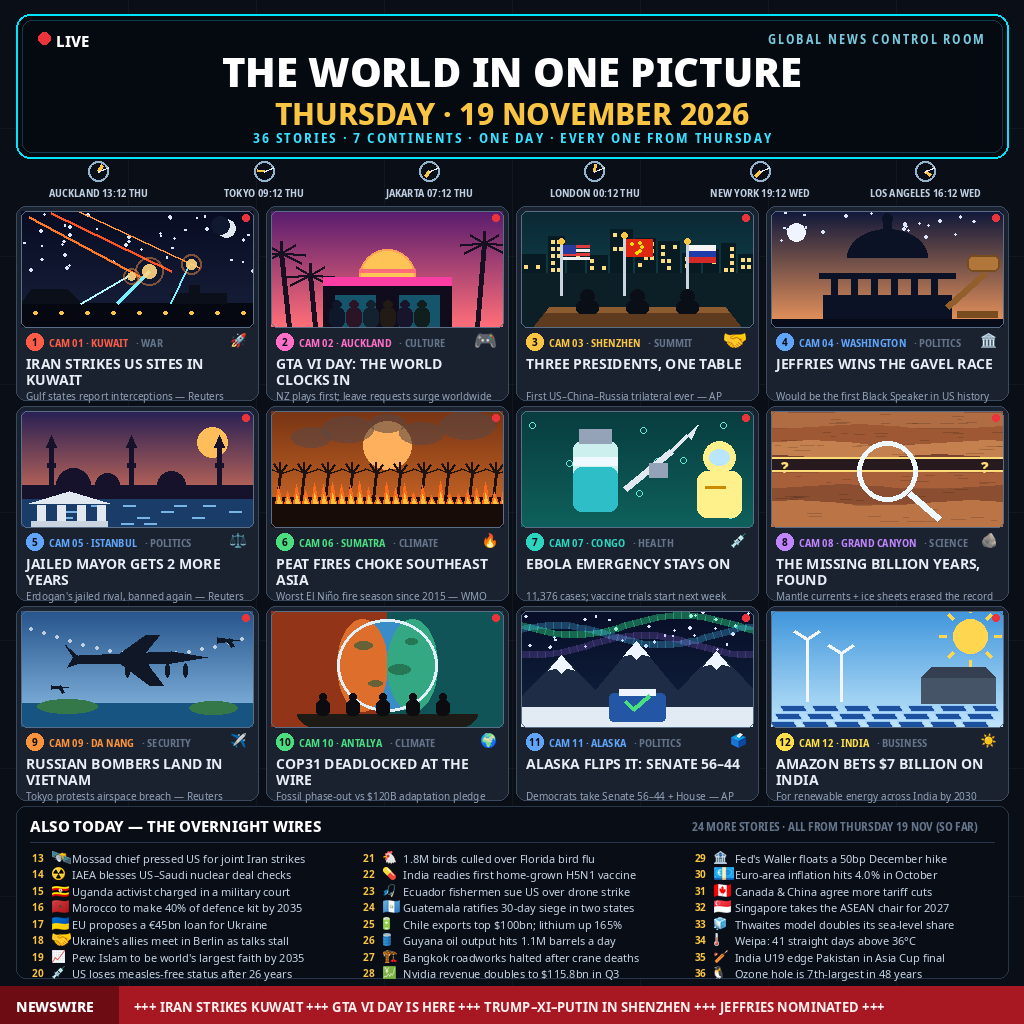
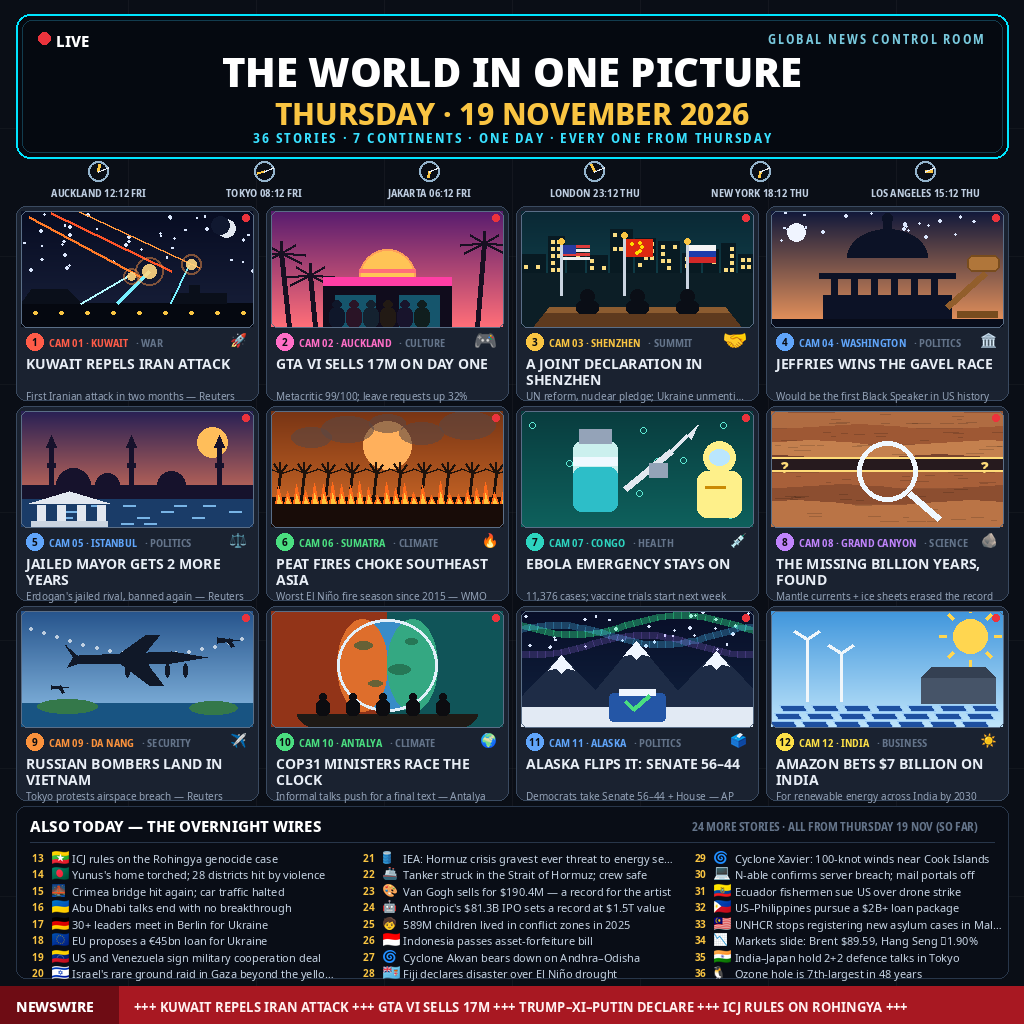
Full-day refresh: 19 November 2026 in one image — global news control room, 36 stories, 7 continents

diff --git a/draw.py b/draw.py
@@ -2,7 +2,7 @@
 """Draw entry.png: the world news of Thursday 19 November 2026 on one wall.
 
 Concept — "THE WORLD IN ONE PICTURE: the global news control room".
-A dark mission-control wall at the moment the day begins in London:
+A dark mission-control wall as the day ends in London:
 one big main screen names the day, a strip of world clocks shows the
 day arriving timezone by timezone, and twelve glowing monitors carry
 the day's twelve biggest stories as flat editorial scenes, each with a
@@ -12,21 +12,20 @@ red news ticker closes the picture. Everything is drawn here with PIL
 (no photographic assets), so the render is deterministic: same bytes
 every run.
 
-The stories are the early-day set for Thursday 19 November 2026,
-gathered in the WIB morning from the overnight wires (Reuters, AP,
-AFP) and the day's first Asia-Pacific editions. The parent agent may
-refresh STORIES/BRIEFS later in the day and re-run this script before
-submitting.
+The stories are the full-day set for Thursday 19 November 2026,
+gathered from the day's wires and editions (Reuters, AP, AFP, The Times,
+Euronews), from the overnight wires through the evening close.
 
 Panels:
- 1. Iran strikes US sites in Kuwait & Bahrain overnight after the US
-    strike on Qeshm Island; both Gulf states report interceptions;
-    first attack on Kuwait since September (Reuters).
- 2. GTA VI unlocks at midnight after a 13-year wait, New Zealand
-    first; midnight queues, leave requests surge worldwide (AFP).
+ 1. Kuwait repels Iran's attack overnight — the first Iranian attack
+    on Kuwait in two months; Saudi Civil Defence sounds then clears a
+    missile warning over Riyadh (Reuters).
+ 2. GTA VI sells over 17 million copies on day one after a 13-year
+    wait, New Zealand first; Metacritic 99/100, leave requests up 32%
+    worldwide (Euronews / AFP).
  3. Trump, Xi and Putin hold the first-ever US-China-Russia trilateral
-    on the APEC sidelines in Shenzhen; nuclear arms and Iran on the
-    agenda (AP).
+    in Shenzhen and issue a joint declaration: UN reform, a nuclear
+    pledge, more refined oil supply; Ukraine unmentioned (The Times).
  4. House Democrats nominate Hakeem Jeffries for Speaker 251-11; he
     would be the first Black Speaker, taking the gavel on 3 January.
  5. A Turkish court gives jailed Istanbul mayor Ekrem Imamoglu two
@@ -41,8 +40,9 @@ Panels:
  9. Two Russian Tu-95 bombers land at Da Nang, Vietnam, after flights
     that skirted Taiwan and breached Japanese airspace; Tokyo lodges a
     stern protest (Reuters).
-10. COP31 in Antalya enters its final hours split between a fossil
-    phase-out and a pledge to triple adaptation finance to $120bn.
+10. COP31 in Antalya enters its final hours as ministers meet in
+    informal session to unblock a final text; Vanuatu urges reform
+    of the climate talks.
 11. Mary Peltola's Alaska win seals a 56-44 Democratic Senate
     majority after nine midterm flips; the House is called too (AP).
 12. Amazon pledges $7 billion for renewable energy projects in India
@@ -545,14 +545,14 @@ SCENES = [sc_kuwait, sc_gta, sc_shenzhen, sc_capitol, sc_istanbul, sc_fires,
 # (camera tag, category, emoji, headline, caption)
 STORIES = [
     ("CAM 01 · KUWAIT", "WAR", "🚀",
-     "IRAN STRIKES US SITES IN KUWAIT",
-     "Gulf states report interceptions — Reuters"),
+     "KUWAIT REPELS IRAN ATTACK",
+     "First Iranian attack in two months — Reuters"),
     ("CAM 02 · AUCKLAND", "CULTURE", "🎮",
-     "GTA VI DAY: THE WORLD CLOCKS IN",
-     "NZ plays first; leave requests surge worldwide"),
+     "GTA VI SELLS 17M ON DAY ONE",
+     "Metacritic 99/100; leave requests up 32%"),
     ("CAM 03 · SHENZHEN", "SUMMIT", "🤝",
-     "THREE PRESIDENTS, ONE TABLE",
-     "First US–China–Russia trilateral ever — AP"),
+     "A JOINT DECLARATION IN SHENZHEN",
+     "UN reform, nuclear pledge; Ukraine unmentioned — Times"),
     ("CAM 04 · WASHINGTON", "POLITICS", "🏛",
      "JEFFRIES WINS THE GAVEL RACE",
      "Would be the first Black Speaker in US history"),
@@ -572,8 +572,8 @@ STORIES = [
      "RUSSIAN BOMBERS LAND IN VIETNAM",
      "Tokyo protests airspace breach — Reuters"),
     ("CAM 10 · ANTALYA", "CLIMATE", "🌍",
-     "COP31 DEADLOCKED AT THE WIRE",
-     "Fossil phase-out vs $120B adaptation pledge"),
+     "COP31 MINISTERS RACE THE CLOCK",
+     "Informal talks push for a final text — Antalya"),
     ("CAM 11 · ALASKA", "POLITICS", "🗳",
      "ALASKA FLIPS IT: SENATE 56–44",
      "Democrats take Senate 56–44 + House — AP"),
@@ -582,40 +582,40 @@ STORIES = [
      "For renewable energy across India by 2030"),
 ]
 
-# (emoji, text) — briefs 13..36, all from the 19 Nov 2026 early wires
+# (emoji, text) — briefs 13..36, all from the 19 Nov 2026 full-day wires
 BRIEFS = [
-    ("🛰", "Mossad chief pressed US for joint Iran strikes"),
-    ("☢", "IAEA blesses US–Saudi nuclear deal checks"),
-    ("🇺🇬", "Uganda activist charged in a military court"),
-    ("🇲🇦", "Morocco to make 40% of defence kit by 2035"),
-    ("🇺🇦", "EU proposes a €45bn loan for Ukraine"),
-    ("🤝", "Ukraine's allies meet in Berlin as talks stall"),
-    ("📈", "Pew: Islam to be world's largest faith by 2035"),
-    ("💉", "US loses measles-free status after 26 years"),
-    ("🐔", "1.8M birds culled over Florida bird flu"),
-    ("💊", "India readies first home-grown H5N1 vaccine"),
-    ("🎣", "Ecuador fishermen sue US over drone strike"),
-    ("🇬🇹", "Guatemala ratifies 30-day siege in two states"),
-    ("🔋", "Chile exports top $100bn; lithium up 165%"),
-    ("🛢", "Guyana oil output hits 1.1M barrels a day"),
-    ("🏗", "Bangkok roadworks halted after crane deaths"),
-    ("💹", "Nvidia revenue doubles to $115.8bn in Q3"),
-    ("🏦", "Fed's Waller floats a 50bp December hike"),
-    ("💶", "Euro-area inflation hits 4.0% in October"),
-    ("🇨🇦", "Canada & China agree more tariff cuts"),
-    ("🇸🇬", "Singapore takes the ASEAN chair for 2027"),
-    ("🧊", "Thwaites model doubles its sea-level share"),
-    ("🌡", "Weipa: 41 straight days above 36°C"),
-    ("🏏", "India U19 edge Pakistan in Asia Cup final"),
+    ("🇲🇲", "ICJ rules on the Rohingya genocide case"),
+    ("🇧🇩", "Yunus's home torched; 28 districts hit by violence"),
+    ("🌉", "Crimea bridge hit again; car traffic halted"),
+    ("🇺🇦", "Abu Dhabi talks end with no breakthrough"),
+    ("🇩🇪", "30+ leaders meet in Berlin for Ukraine"),
+    ("🇪🇺", "EU proposes a €45bn loan for Ukraine"),
+    ("🇻🇪", "US and Venezuela sign military cooperation deal"),
+    ("🇮🇱", "Israel's rare ground raid in Gaza beyond the yellow line"),
+    ("🛢", "IEA: Hormuz crisis gravest ever threat to energy security"),
+    ("🚢", "Tanker struck in the Strait of Hormuz; crew safe"),
+    ("🎨", "Van Gogh sells for $190.4M — a record for the artist"),
+    ("🤖", "Anthropic's $81.3B IPO sets a record at $1.5T value"),
+    ("🧒", "589M children lived in conflict zones in 2025"),
+    ("🇮🇩", "Indonesia passes asset-forfeiture bill"),
+    ("🌀", "Cyclone Akvan bears down on Andhra–Odisha"),
+    ("🇫🇯", "Fiji declares disaster over El Niño drought"),
+    ("🌀", "Cyclone Xavier: 100-knot winds near Cook Islands"),
+    ("💻", "N-able confirms server breach; mail portals off"),
+    ("🇪🇨", "Ecuador fishermen sue US over drone strike"),
+    ("🇵🇭", "US–Philippines pursue a $2B+ loan package"),
+    ("🇲🇾", "UNHCR stops registering new asylum cases in Malaysia"),
+    ("📉", "Markets slide: Brent $89.59, Hang Seng −1.90%"),
+    ("🇮🇳", "India–Japan hold 2+2 defence talks in Tokyo"),
     ("🐧", "Ozone hole is 7th-largest in 48 years"),
 ]
 
-CLOCKS = [("AUCKLAND", "13:12", "THU", 1, 12), ("TOKYO", "09:12", "THU", 9, 12),
-          ("JAKARTA", "07:12", "THU", 7, 12), ("LONDON", "00:12", "THU", 0, 12),
-          ("NEW YORK", "19:12", "WED", 7, 12), ("LOS ANGELES", "16:12", "WED", 4, 12)]
+CLOCKS = [("AUCKLAND", "12:12", "FRI", 12, 12), ("TOKYO", "08:12", "FRI", 8, 12),
+          ("JAKARTA", "06:12", "FRI", 6, 12), ("LONDON", "23:12", "THU", 11, 12),
+          ("NEW YORK", "18:12", "THU", 6, 12), ("LOS ANGELES", "15:12", "THU", 3, 12)]
 
-TICKER = ("+++ IRAN STRIKES KUWAIT +++ GTA VI DAY IS HERE +++ TRUMP–XI–PUTIN "
-          "IN SHENZHEN +++ JEFFRIES NOMINATED +++ FIRES CHOKE SOUTHEAST ASIA +++")
+TICKER = ("+++ KUWAIT REPELS IRAN ATTACK +++ GTA VI SELLS 17M +++ TRUMP–XI–PUTIN "
+          "DECLARE +++ ICJ RULES ON ROHINGYA +++ COP31 AT THE WIRE +++")
 
 
 # ---------------- composition ----------------
